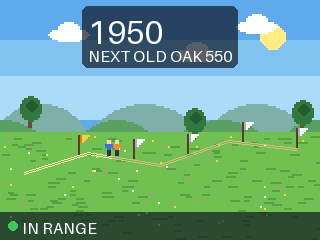
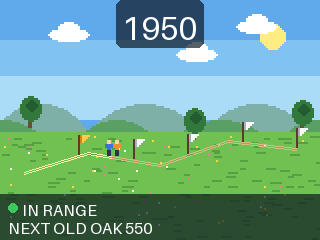
Fix the step count at 20% of the screen and apart status at the bottom edge
Assistant-workflow: inline
Assistant-verification: python unittest passed: python3 -m unittest discover -s tests -p 'test_[!t]*.py' (40 tests; test_training skipped, sklearn not installed)
Assistant-model: Claude Opus 5.5

Changed region(s): [[0.0, 0.7875, 1.0, 0.9917], [0.25, 0.0, 0.75, 0.2917]]

diff --git a/walk_together/screen.py b/walk_together/screen.py
@@ -29,10 +29,7 @@ The screen is driven by one plain dict (see `build_view_model`):
 
 import math
 
-# --- Provisional layout: the plan has not decided the step count's size or
-# --- position. Change these constants to adjust it.
-COUNT_SIZE = 2  # step count text size, in multiples of the status text size
-COUNT_TOP = 3  # design px from the top edge to the count plate
+COUNT_BAND = 0.2  # the pooled count owns the top fifth of the screen, top middle
 STATUS_TEXT_SIZE = 1
 
 DESIGN_W = 160
@@ -168,11 +165,11 @@ class Meadow:
             )
         self._draw_marker(gs, mx, my, in_range, moving)
 
-        plate_bottom = self._draw_count(gs, ts, model)
+        band_bottom = self._draw_count(gs, ts, model)
         if model["goal"] is None:
-            self._draw_banner(gs, ts, "ALL GOALS REACHED!", plate_bottom)
+            self._draw_banner(gs, ts, "ALL GOALS REACHED!", band_bottom)
         elif self.banner_ms > 0:
-            self._draw_banner(gs, ts, self.banner_text, plate_bottom)
+            self._draw_banner(gs, ts, self.banner_text, band_bottom)
         self._draw_status(gs, ts, model)
 
     def _draw_path(self, gs, marker_x):
@@ -202,50 +199,42 @@ class Meadow:
         )
 
     def _draw_count(self, gs, ts, model):
-        """Step count plate, top centre. Returns the plate's bottom edge in px."""
+        """Pooled count plate filling the top 20% of the screen, centred.
+
+        Returns the band's bottom edge in px."""
         in_range = model["in_range"]
         total = model["pooled_total"] if in_range else model["last_shared_total"]
         text = str(total)
         extra = "" if in_range or model["own_new_steps"] <= 0 else "+" + str(model["own_new_steps"])
         small = STATUS_TEXT_SIZE * ts
         pad = PAD * gs
-        limit = screen.width - 2 * MARGIN * gs - 2 * pad
-        big = COUNT_SIZE * ts
+        band = screen.height * COUNT_BAND
+        max_w = screen.width - 2 * MARGIN * gs - 2 * pad
+        max_h = band - 2 * pad
         gap = 3 * gs if extra else 0
-        while big > small:
-            w = screen.measure_text(text, font_size=big)[0]
-            if extra:
-                w += gap + screen.measure_text(extra, font_size=small)[0]
-            if w <= limit:
-                break
-            big -= ts
-        cw, ch = screen.measure_text(text, font_size=big)
         ew = screen.measure_text(extra, font_size=small)[0] if extra else 0
         eh = screen.measure_text(extra or "0", font_size=small)[1]
 
-        line2 = ""
-        if model["goal"] is not None:
-            prefix, steps = "NEXT ", " " + str(model["steps_to_next"])
-            room = limit - screen.measure_text(prefix + steps, font_size=small)[0]
-            line2 = prefix + _fit(model["goal"].upper(), room, small) + steps
-        l2w, l2h = screen.measure_text(line2 or "0", font_size=small)
+        big = small
+        while True:
+            w, h = screen.measure_text(text, font_size=big + ts)
+            if h > max_h or w + gap + ew > max_w:
+                break
+            big += ts
+        cw, ch = screen.measure_text(text, font_size=big)
 
-        width = max(cw + gap + ew, l2w if line2 else 0) + 2 * pad
-        height = ch + (l2h + gs if line2 else 0) + 2 * pad
+        width = cw + gap + ew + 2 * pad
         x = (screen.width - width) / 2
-        y = COUNT_TOP * gs
         screen.pen = PLATE
-        screen.shape(shape.rounded_rectangle(x, y, width, height, 3 * gs))
+        screen.shape(shape.rounded_rectangle(x, 0, width, band, 3 * gs))
 
+        ty = (band - ch) / 2
         screen.pen = WHITE
-        screen.text(text, x + pad, y + pad, big)
+        screen.text(text, x + pad, ty, big)
         if extra:
             screen.pen = AMBER
-            screen.text(extra, x + pad + cw + gap, y + pad + ch - eh, small)
-        if line2:
-            screen.pen = WHITE
-            screen.text(line2, x + (width - l2w) / 2, y + pad + ch + gs, small)
-        return y + height
+            screen.text(extra, x + pad + cw + gap, ty + ch - eh, small)
+        return band
 
     def _draw_banner(self, gs, ts, text, top):
         small = STATUS_TEXT_SIZE * ts
@@ -264,7 +253,7 @@ class Meadow:
         screen.shape(shape.star(x + width + r, y + r, 5, r * 0.45, r))
 
     def _draw_status(self, gs, ts, model):
-        """Bottom strip: In range / Out of range, and time apart."""
+        """Bottom edge of the meadow: range status, next goal and time apart."""
         small = STATUS_TEXT_SIZE * ts
         in_range = model["in_range"]
         label = "IN RANGE" if in_range else "OUT OF RANGE"
@@ -272,24 +261,29 @@ class Meadow:
         apart = None
         if not in_range:
             apart = format_ago(since) if since is None else "APART " + format_ago(since)
-        lw, lh = screen.measure_text(label, font_size=small)
-        aw, ah = screen.measure_text(apart or "0", font_size=small)
+        lh = screen.measure_text(label, font_size=small)[1]
         pad = PAD * gs
         dot = lh * 0.6
-        rows = 2 if apart else 1
+        lines = []
+        if apart:
+            lines.append((apart, AMBER))
+        if model["goal"] is not None:
+            prefix, steps = "NEXT ", " " + str(model["steps_to_next"])
+            room = screen.width - 2 * MARGIN * gs - screen.measure_text(prefix + steps, font_size=small)[0]
+            lines.append((prefix + _fit(model["goal"].upper(), room, small) + steps, WHITE))
+        rows = 1 + len(lines)
         height = rows * lh + (rows - 1) * gs + 2 * pad
         top = screen.height - height
         screen.pen = PLATE
         screen.rectangle(0, top, screen.width, height)
 
-        pen = GREEN if in_range else AMBER
-        screen.pen = pen
+        screen.pen = GREEN if in_range else AMBER
         screen.shape(shape.circle(MARGIN * gs + dot / 2, top + pad + lh / 2, dot / 2))
         screen.pen = WHITE
         screen.text(label, MARGIN * gs + dot + 2 * gs, top + pad, small)
-        if apart:
-            screen.pen = AMBER
-            screen.text(apart, MARGIN * gs, top + pad + lh + gs, small)
+        for row, (text, pen) in enumerate(lines, 1):
+            screen.pen = pen
+            screen.text(text, MARGIN * gs, top + pad + row * (lh + gs), small)
 
 
 _meadow = Meadow()

diff --git a/tests/test_screen.py b/tests/test_screen.py
@@ -412,6 +412,40 @@ class RuntimeRuleTests(ScreenTestCase):
         sizes = {c[3]: c[6] for c in self.screen.calls if c[0] == "text"}
         self.assertGreater(sizes["1950"], sizes["IN RANGE"])
 
+    def text_call(self, text):
+        return next(c for c in self.screen.calls if c[0] == "text" and c[3] == text)
+
+    def check_count_fills_top_fifth(self):
+        h = self.screen.height
+        self.frame(vm())
+        plate = next(c[3] for c in self.screen.calls if c[0] == "shape" and c[3][0] == "rounded_rectangle")
+        _, x, y, w, ph, _ = plate
+        self.assertEqual(y, 0)
+        self.assertAlmostEqual(ph, h * 0.2)
+        self.assertAlmostEqual(x + w / 2, self.screen.width / 2)
+        _, _, _, text, tx, ty, size = self.text_call("1950")
+        tw, th = self.screen.measure_text(text, size)
+        self.assertGreaterEqual(ty, 0)
+        self.assertLessEqual(ty + th, h * 0.2)
+        self.assertGreater(th, h * 0.2 / 2)
+
+    def test_count_fills_top_fifth_at_160x120(self):
+        self.check_count_fills_top_fifth()
+
+    def test_count_fills_top_fifth_at_320x240(self):
+        self.screen.width, self.screen.height = 320, 240
+        self.check_count_fills_top_fifth()
+
+    def test_apart_status_sits_along_the_bottom_edge(self):
+        h = self.screen.height
+        self.frame(vm(in_range=False, seconds_since_share=180, own_new_steps=300))
+        for label in ("OUT OF RANGE", "APART 3M AGO"):
+            _, _, _, _, _, y, _ = self.text_call(label)
+            self.assertGreater(y, h * 0.6, label)
+        strip = [c for c in self.screen.calls if c[0] == "rectangle" and c[1] == self.mod.PLATE]
+        _, _, _, _, top, _, height = strip[-1]
+        self.assertAlmostEqual(top + height, h)
+
 
 class ViewModelTests(unittest.TestCase):
     def setUp(self):

diff --git a/docs/walk_together/README.md b/docs/walk_together/README.md
@@ -16,5 +16,7 @@ There is no separate inverted capture: the firmware keeps the display upright
 when the badge is inverted, and `screen.py` never reads the orientation
 (`tests/test_screen.py` checks the drawing is identical either way).
 
-The step count's size and position are provisional (the plan has not decided
-them); they are constants at the top of `walk_together/screen.py`.
+The pooled step count fills the top 20% of the screen, centred over the meadow
+(`COUNT_BAND` in `walk_together/screen.py`). Range status, time apart and the
+next goal sit in a strip along the bottom edge, so the top stays clear for the
+count.
